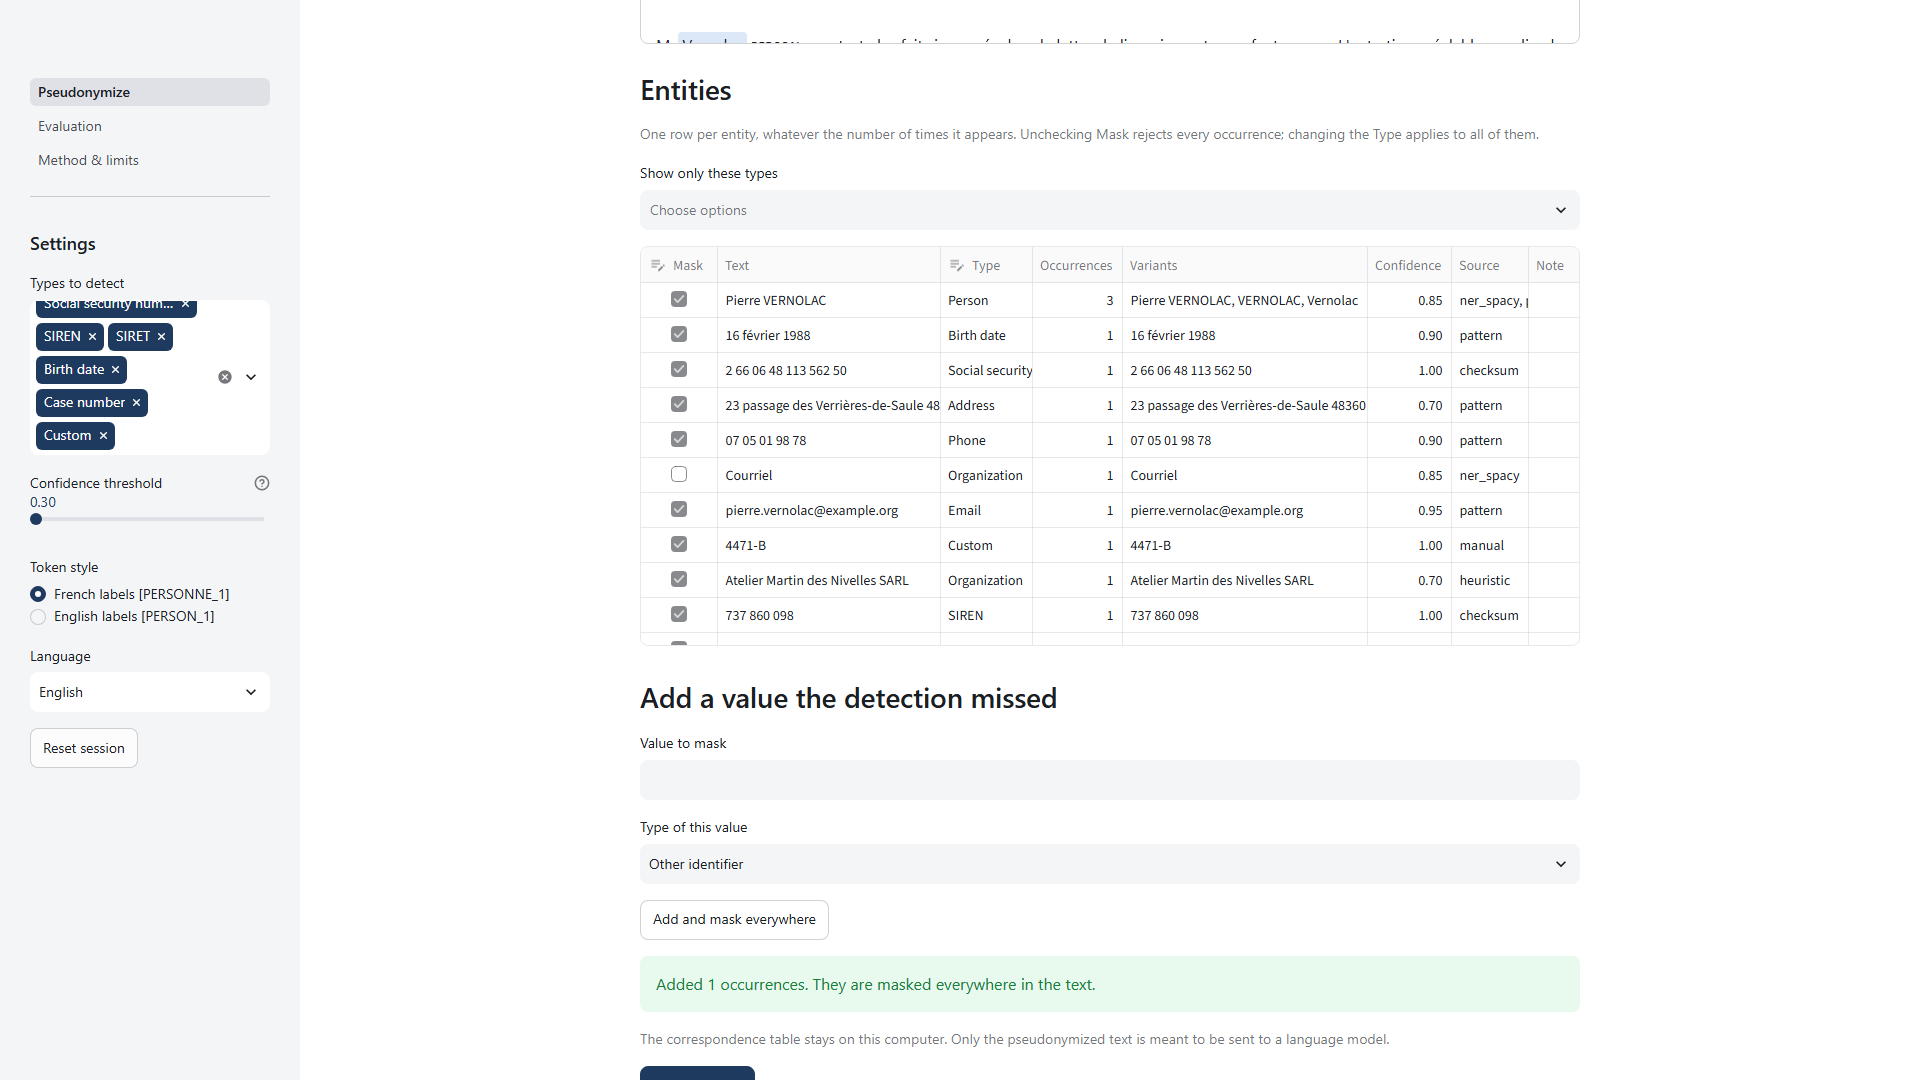
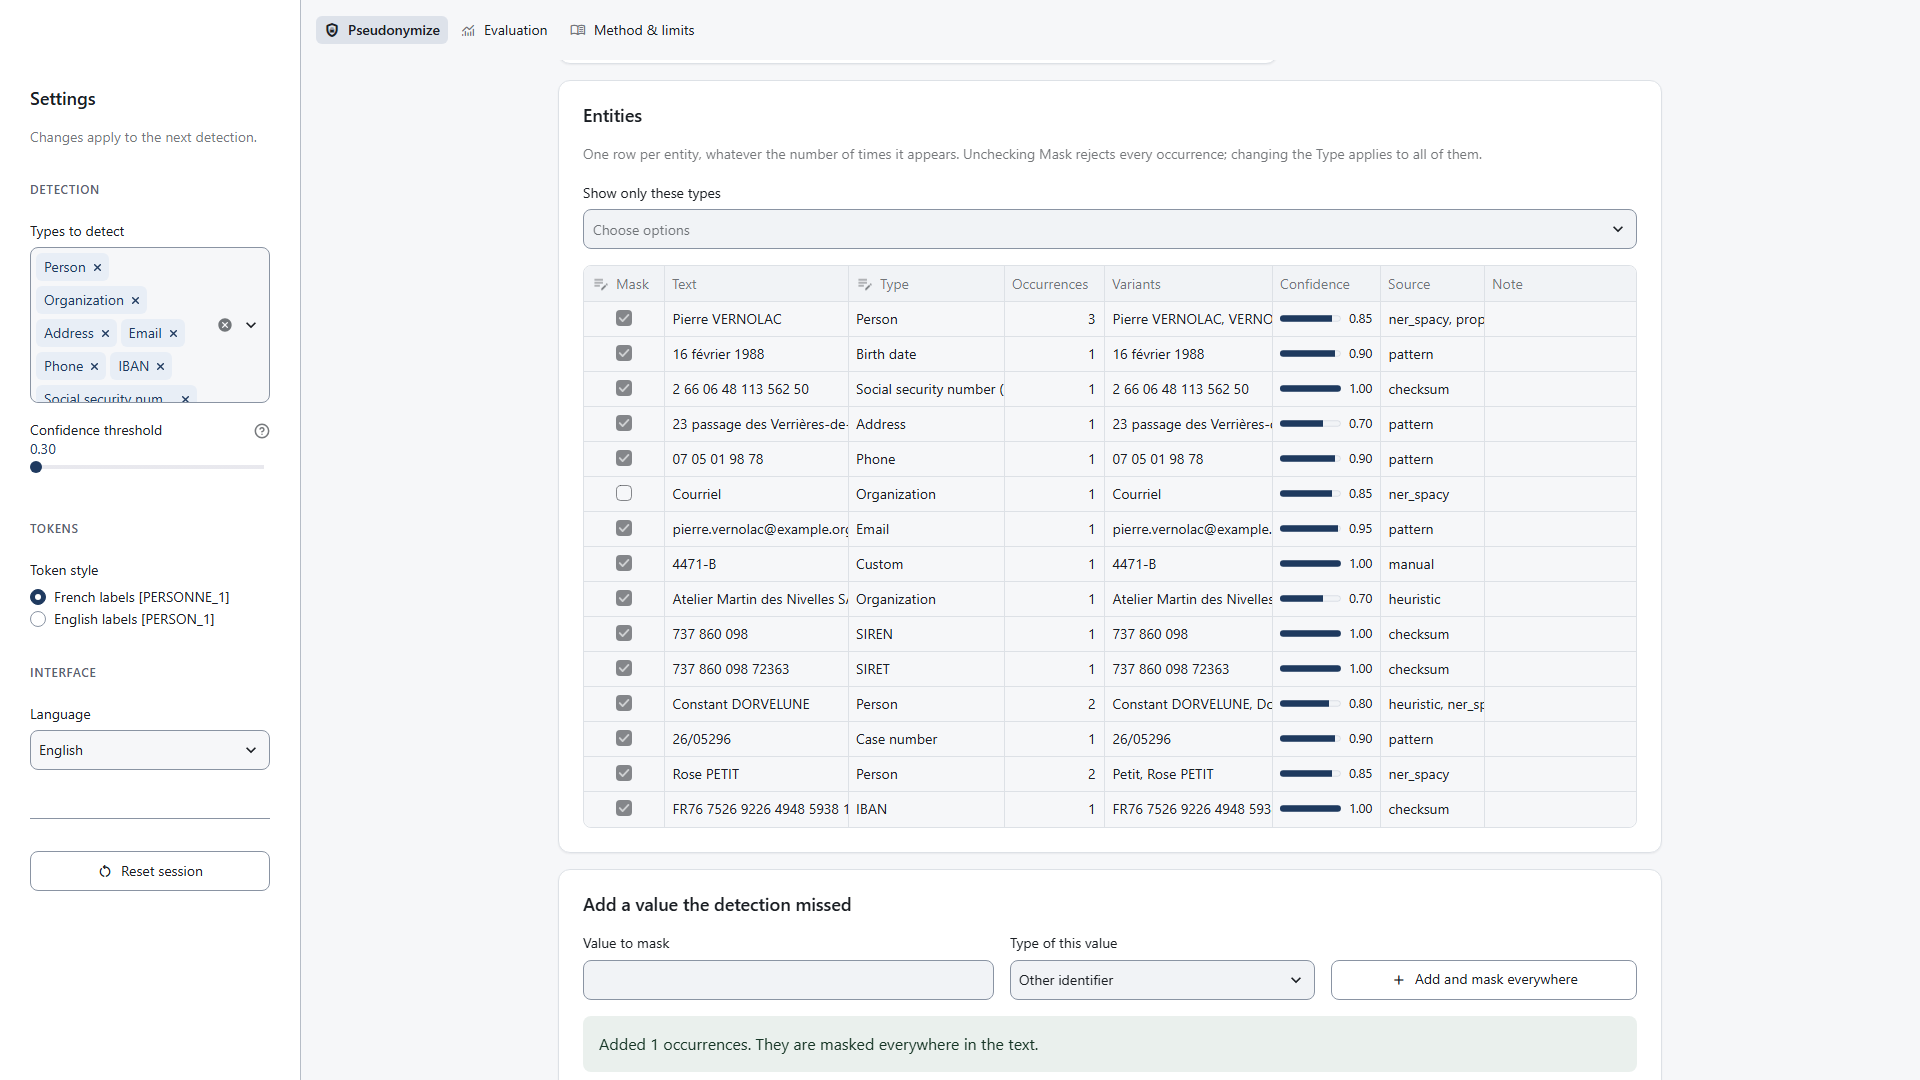
S36 : refonte visuelle de l'interface

diff --git a/app/assets/style.css b/app/assets/style.css
@@ -315,7 +315,18 @@ textarea:focus-visible,
     max-width: 72ch;
 }
 
-/* Indicateurs chiffrés en cartes. */
+/* Indicateurs chiffrés en cartes, de même hauteur sur une rangée même quand un libellé
+   traduit passe sur deux lignes. */
+.st-key-hc-metrics [data-testid="stHorizontalBlock"] {
+    align-items: stretch;
+}
+
+.st-key-hc-metrics [data-testid="stColumn"] [data-testid="stVerticalBlock"],
+.st-key-hc-metrics [data-testid="stColumn"] [data-testid="stElementContainer"],
+.st-key-hc-metrics [data-testid="stMetric"] {
+    height: 100%;
+}
+
 [data-testid="stMetric"] {
     background: var(--hc-card);
     border-color: var(--hc-border);

diff --git a/tests/test_i18n.py b/tests/test_i18n.py
@@ -13,6 +13,7 @@ import pytest
 from streamlit.testing.v1 import AppTest
 
 from app import i18n
+from huisclos.models import EntityType
 
 MODULE_NAMES = [path.stem for path in Path("app/i18n").glob("*.py")]
 
@@ -71,3 +72,22 @@ def test_main_app_in_french() -> None:
     app.selectbox(key="language").select("fr").run()
     assert not app.exception
     assert any(header.value == "Importer un document" for header in app.header)
+
+
+def test_language_switch_resends_the_chosen_settings() -> None:
+    """Le changement de langue renvoie au navigateur les types et le style de jetons choisis.
+
+    Le navigateur désigne un choix par son libellé : sans renvoi (set_value), un libellé
+    traduit ne correspond plus et le navigateur perd les types dont le nom change, donc les
+    noms ne seraient plus détectés.
+    """
+    app = AppTest.from_file(Path("streamlit_app.py").resolve(), default_timeout=15).run()
+    app.sidebar.radio(key="token_style").set_value("en").run()
+    app.sidebar.selectbox(key="language").select("fr").run()
+    assert not app.exception
+    types = app.sidebar.multiselect(key="enabled_types")
+    style = app.sidebar.radio(key="token_style")
+    assert types.proto.set_value
+    assert style.proto.set_value
+    assert len(types.value) == len(EntityType) - 1
+    assert style.value == "en"

diff --git a/app/steps/import_step.py b/app/steps/import_step.py
@@ -13,7 +13,7 @@ from pathlib import Path
 import streamlit as st
 
 from app.engine import prepare_engine
-from app.i18n import t
+from app.i18n import current_language, t
 from app.sidebar import build_config
 from app.state import (
     KEY_DETECTIONS,
@@ -141,7 +141,17 @@ def _render_source_feedback() -> None:
     name = st.session_state[KEY_SOURCE_NAME]
     if name == SAMPLE_PATH.name:
         st.info(t("import.sample.notice"), icon=":material/science:")
-    st.caption(t("import.source.summary", name=literal_markdown(name), count=f"{len(text):,}"))
+    st.caption(t("import.source.summary", name=literal_markdown(name), count=_count(len(text))))
+
+
+def _count(number: int) -> str:
+    """Écrit un nombre avec le séparateur de milliers de la langue : 2,057 ou 2 057.
+
+    En français, la virgule est le séparateur décimal ; les milliers sont séparés par une
+    espace fine insécable.
+    """
+    written = f"{number:,}"
+    return written.replace(",", "\u202f") if current_language() == "fr" else written
 
 
 def _run_detection(config: DetectionConfig) -> None:

diff --git a/app/sidebar.py b/app/sidebar.py
@@ -48,7 +48,15 @@ def build_config() -> DetectionConfig:
 
 
 def _keep_available_language() -> None:
-    """Rappel du choix de langue : revient à l'anglais si la langue choisie n'existe pas."""
+    """Rappel du choix de langue : garde les réglages choisis, revient à l'anglais au besoin.
+
+    Le navigateur désigne les choix d'une liste par leur libellé affiché. Quand la langue
+    change, un libellé traduit ne correspond plus à aucune option et le choix serait perdu :
+    tous les types sauf IBAN, SIREN et SIRET, donc les noms laissés en clair. Réécrire ces
+    valeurs depuis le serveur les renvoie au navigateur avec les nouveaux libellés.
+    """
+    st.session_state[KEY_ENABLED_TYPES] = list(st.session_state[KEY_ENABLED_TYPES])
+    st.session_state[KEY_TOKEN_STYLE] = st.session_state[KEY_TOKEN_STYLE]
     if st.session_state[KEY_LANGUAGE] not in AVAILABLE_LANGUAGES:
         st.session_state[KEY_LANGUAGE] = AVAILABLE_LANGUAGES[0]
         st.session_state[KEY_LANGUAGE_NOTICE] = True

diff --git a/app/steps/review_step.py b/app/steps/review_step.py
@@ -284,7 +284,7 @@ def render() -> None:
     groups = group_mentions(text, detections)
     st.markdown(t("review.intro"))
     _render_metrics(groups, detections)
-    document, side = st.columns([7, 3], gap="medium")
+    document, side = st.columns([2, 1], gap="medium")
     with document:
         _render_text(text, detections)
     with side:

diff --git a/docs/DECISIONS.md b/docs/DECISIONS.md
@@ -236,3 +236,24 @@ Seuil par défaut : 0,40 jusqu'à la gate 4, puis la valeur de results/threshold
 - Contexte : sur Community Cloud, un seul processus sert tous les visiteurs ; le modèle spaCy occupe l'essentiel de la mémoire (D-05). build_analyzer garde déjà son résultat par lru_cache, mais la logique métier de src/ ne doit pas dépendre de Streamlit.
 - Choix : app/engine.py enveloppe build_analyzer dans st.cache_resource, avec les cinq valeurs simples de la configuration pour clé ; l'étape Import l'appelle juste avant detect(), qui retrouve le même objet. Aucun st.cache_data dans app/ : aucun texte ni résultat de l'utilisateur n'est conservé entre sessions. tests/test_deploy.py vérifie ces deux points et l'absence d'écriture sur le disque dans app/.
 - Raison : un seul chargement du modèle par processus, visible et gérable par Streamlit (vidage du cache), sans modifier src/ ; le bandeau de démo (D-14) était déjà lu dans la variable d'environnement ou le secret HUISCLOS_PUBLIC_DEMO.
+
+## D-S36-1 Système de design, palette et polices
+- Choix : jetons CSS dans app/assets/style.css, repris par le thème de .streamlit/config.toml (test d'égalité). Bleu marine #1F3A5F pour l'action principale ; un seul accent, #0E7490 (5,36:1 sur blanc), pour le focus et les liens ; neutres #F6F7F9 (fond), cartes blanches à bordure #DDE1E6, bordure des composants #8A94A3 (3,07:1) ; états succès #2E6B4F, alerte #8C5A00, erreur #9B2C2C. Espacements multiples de 4 px (le test passe de 8 à 4, comme le demande la charte), rayons 4, 8 et 12 px, ombres légères. Chaque type d'entité reçoit une couleur franche (trait sous la mention, pastille, libellé) d'au moins 4,5:1 sur blanc. La police du système est fixée par le thème ; le remplacement global de police par CSS est retiré, car il effaçait la police des icônes passées en paramètre icon=. Graphiques : CHART_COLORS (marine puis teintes Okabe-Ito) remplace OKABE_ITO.
+- Raison : une seule source de couleurs, des contrastes AA vérifiés par tests/test_app_design.py, et des icônes Material natives sans ressource externe.
+
+## D-S36-2 Navigation en haut de page et en-tête honnête en démonstration
+- Choix : st.navigation(position="top") avec icônes Material ; la barre latérale ne garde que les réglages, groupés (Detection, Tokens, Interface), avec une aide courte et Reset session en action secondaire. Le nom et l'accroche forment un seul bloc HTML (un h1) au lieu de st.title, qui chevauchait l'accroche dans une rangée ; le test d'en-tête lit ce bloc. La pastille "Local processing" et l'encadré de confidentialité d'Import deviennent "Public demo" quand HUISCLOS_PUBLIC_DEMO vaut true.
+- Raison : sur la démonstration publique, le texte est traité par le serveur de l'hébergeur ; promettre un traitement local y serait faux (prudence, principe 1). Aucun libellé de bouton n'a changé ; la mention "(current step)" devient "Current step", absente du README et du guide.
+
+## D-S36-3 Découpage de Review et Restore, seuil de faible confiance
+- Choix : app/steps/review_step.py (393 lignes) est découpé en app/steps/review_decisions.py (décisions par position, ajout manuel), app/components/entity_table.py (lignes, colonnes, comparaison des modifications) et app/components/review_summary.py (cartes d'indicateurs) ; restore_step.py confie les téléchargements à restore_exports.py et l'envoi Mistral à restore_mistral.py ; le stepper est un composant pur (app/components/stepper.py). La carte "Low confidence" compte les occurrences de score inférieur à 0,75.
+- Raison : fichiers sous 300 lignes environ ; 0,75 isole, d'après le barème D-07, les formes Prénom NOM, les adresses et les numéros à clé fausse, à relire en premier. Ce seuil d'affichage ne change rien à la détection.
+
+## D-S36-4 Changement de langue : les réglages choisis sont renvoyés au navigateur
+- Constat : dans Chromium, passer l'interface en français ne laissait que IBAN, SIREN et SIRET dans "Types to detect" (seuls libellés identiques dans les deux langues) et vidait le choix du style de jetons : le navigateur désigne un choix par son libellé affiché. Défaut présent depuis S34, invisible pour AppTest ; les noms n'étaient alors plus détectés.
+- Choix : le rappel du sélecteur de langue réécrit les types activés et le style de jetons dans l'état ; Streamlit les renvoie alors avec les nouveaux libellés (indicateur set_value, vérifié par tests/test_i18n.py). Échec constaté sans le correctif, succès avec, dans Chromium : 12 types, style conservé, 18 détections du cas fictif.
+- Raison : priorité au rappel (principe 3) ; un réglage d'affichage ne doit jamais retirer un type de la détection.
+
+## D-S36-5 Valeurs restaurées surlignées
+- Choix : le texte restauré s'affiche dans un onglet "Highlighted" où chaque forme réelle des jetons remplacés (forme principale, variantes, formes d'origine de la table) est surlignée, avec son type écrit à côté, en mots entiers et la plus longue d'abord ; l'onglet "Plain text (copy)" garde le bloc st.code et son bouton de copie. Une valeur déjà écrite en clair dans la réponse est aussi surlignée.
+- Raison : relire les vraies valeurs avant d'utiliser la réponse, sans recalculer les positions de la restauration dans l'interface (aucune modification de src/). Surligner une valeur réelle déjà présente reste exact : c'est une donnée du dossier.

diff --git a/docs/PROGRESS.md b/docs/PROGRESS.md
@@ -14,6 +14,14 @@ Une entrée par session, la plus récente en tête de la section Entrées. Cinq 
 
 ## Entrées
 
+### 2026-10-28 01:49 | S36 | Recette R5, puis refonte visuelle de l'interface | Claude Code, Opus 5.5
+- Fait : étape 0, lane-b déjà fusionnée, 865 passed. Phase 0 sans objet : tag gate-5 déjà posé par R5. Refonte en quatre commits : système de design à jetons et thème aligné, en-tête compact (mot-symbole, pastille "Local processing", mention RGPD), navigation en haut avec icônes Material, barre latérale groupée, stepper horizontal (fait, courant, accessible, verrouillé avec raison, aria-current) ; Import en deux colonnes avec st.status ; Review en cartes (cinq indicateurs, page de document, décompte par type, tableau à barre de confiance, ajout manuel sur une ligne, barre d'actions) ; Restore en deux colonnes, valeurs restaurées surlignées avec leur type, téléchargements groupés ; Evaluation avec chiffres clés et graphiques à la charte ; Method en encadrés. Libellés des boutons inchangés.
+- Découpage : review_step.py 393 vers 295 lignes (review_decisions.py, components/entity_table.py, components/review_summary.py) ; restore_exports.py et restore_mistral.py ; components/stepper.py.
+- Défaut trouvé à la relecture française dans Chromium : passer en français ne gardait que IBAN, SIREN et SIRET dans les types et vidait le style de jetons (défaut présent depuis S34, invisible pour AppTest). Échec constaté, correctif dans le rappel de langue, succès constaté (12 types, 18 détections), test set_value ajouté (D-S36-4). Nombre de caractères écrit avec une espace fine en français.
+- Vérification visuelle : venv Playwright temporaire, Streamlit headless sur 8599, séries avant, phase 1, 2, 3, français et 1366 x 768 ; cinq cycles regarder-corriger (en-tête sous la barre de navigation, icônes écrites en toutes lettres, colonnes du tableau coupées, graphique de rappel de 4 000 px, colonnes de Restore déséquilibrées, cartes de hauteurs inégales). Tabulation : Load sample case, Paste text, zone de texte, Detect sensitive data, réglages ; focus visible. Six captures de docs/screenshots/ régénérées en 1920 x 1080 selon le déroulé R3 (rejet de "Courriel", ajout de "4471-B"). Guide : navigation, cartes, onglets du texte restauré mis à jour.
+- Tests : 926 passed (nouveaux : test_stepper.py, test_app_design.py pour ressources externes, contrastes et thème, cartes Review, surlignage restauré, langue) ; ruff check et format : OK ; check_style : 0 erreur, 5 avertissements de longueur (restore_step.py 329 lignes).
+- Décisions : D-S36-1 à D-S36-5. Risques : sélecteurs CSS liés aux data-testid de Streamlit 1.66 (à revoir à toute mise à jour) ; grille du tableau en canvas, case Mask à cliquer au centre. Reste à faire : vérifier la version en ligne après le prochain push (aucun push dans cette session). Suite : S14 (piste B), puis G7.
+
 ### 2026-10-28 00:46 | R5 | Recette de la gate G5 | Claude Code, Opus 5.5
 - Fait : lane-b fusionnée dans dev en avance rapide (0ea9d01), sans conflit ; verdict G5 recheck : GO. Recette dans un dossier temporaire court hors dépôt (%TEMP%\hc-r5), supprimé à la fin ; aucun Streamlit restant, ports 8501 et 8502 libres.
 - Étape 1, guide Windows suivi sur un clone neuf de dev (GitHub n'avait pas encore S52) : OK. Venv 7,1 s ; `pip install -r requirements.txt` code 0 en 93,9 s (cache pip du poste présent), pip check sans conflit, contrôle du modèle "ok" ; lancement `--server.address localhost` en headless : santé ok en 1,4 s, écoute sur 127.0.0.1 seulement, seconde instance passée seule sur 8502. AppTest du cas d'exemple : démarrage 2,9 s, première détection 6,1 s (modèle compris), 18 détections, 14 groupes, aucune valeur détectée restée en clair, restauration exacte identique au texte d'origine, aucune exception.

diff --git a/docs/PROMPTS.md b/docs/PROMPTS.md
@@ -8,6 +8,7 @@ This file records every prompt given to an AI tool while building HuisClos, as t
 
 | Date and time (Paris) | Session | Tool and model | Prompt reference | Follow-up prompts (verbatim) or notes |
 | --- | --- | --- | --- | --- |
+| 2026-10-28 01:49 | S36 | Claude Code, Opus 5.5 | Session request "[HuisClos] Session S36 : recette R5, puis refonte visuelle de l'interface (nuit)" | No follow-up prompt (night session). Phase 0 skipped: tag gate-5 already set by R5. Visual redesign in four commits: design tokens and aligned theme, compact header, top navigation, grouped sidebar, horizontal stepper, two-column Import and Restore, Review cards and document page, restored values highlighted, Evaluation key figures and charts, Method boxes. Review step split into components. Found in Chromium and fixed: switching to French dropped nine detection types and the token style. Playwright screenshots before and after each phase; six docs/screenshots regenerated. 926 tests pass, Ruff and style pass. No push. |
 | 2026-10-28 00:45 | PIL | Claude Code, Opus 5.5 | Human request (verbatim excerpt): "revoir la suite du masterplan pour approfondir le travail [...] un gros travail sur l'interface graphique afin qu'elle soit plus moderne, plus jolie et toujours pro" | Added the deepening tab to docs/MASTER_PLAN.md (S36, S14, C2, S45, S24, G7, S53) and amended AGENTS.md sections 7, 9 and 11. |
 | 2026-10-28 00:46 | R5 | Claude Code, Opus 5.5 | Session request "[HuisClos] Recette R5 : recette de la gate G5, fusion et tag" | Follow-up, verbatim answer to a blocking question about the remote main: "Fusionner origin/main (Recommended)". Fast-forwarded lane-b; G5 verdict GO. Fresh clone of dev in a short temporary folder, Windows user guide followed: python resolved to 3.14, so py -3.12 from the troubleshooting section; install 93.9 s; headless launch on localhost, health in 1.4 s; sample case by AppTest with 18 detections, no leak and exact restore. Clone pytest: 851 passed, 14 CamemBERT skips. Live app: HTTP 200 after the Streamlit sign-in redirects; Playwright: app already awake, demo banner visible, sample detection in 1.4 s, 18 highlights. README URL correct; no repository file changed by the acceptance run. Remote main held the human's devcontainer commit, merged into dev with consent. 865 tests pass, Ruff and style pass. Fast-forward of main, tag gate-5 and push follow. |
 | 2026-10-28 00:13 | G5 recheck | Codex | Repeated session request "[HuisClos] Gate 5 : contrôle de la reproductibilité" | Clean initial tree, fast-forward from dev to 035eb02 without conflict. Independent offline recheck after G5-fix: 865 tests pass, Ruff and style pass with six existing length warnings, installed pins match and pip check is clean. Verified commands, interface labels, 16 internal links, six screenshots and five saved metric rows. Counts-only email audit: corpus 88, tests 37, data 1, zero unauthorized domains; invalid test@localhost remains a rejection fixture. No secret, tracked sensitive file or file over 5 MB detected; maximum sampled hybrid RSS 731.8 MiB. G5-E1 closed, no further correction needed; only these two logs changed. Follow-up, verbatim: "J'ai juste ouvert le lien du streamlit et qlq clics. J'ai rein fait d'autre". GO for the repository; second-machine installation and full online workflow remain unverified by the human. Commit only, no tag or push; run suite.py G5 --go and relay its output verbatim. |

diff --git a/docs/USER_GUIDE.md b/docs/USER_GUIDE.md
@@ -88,9 +88,12 @@ about ten minutes. After that, HuisClos works without internet.
 
 ## 3. The three steps
 
-The left column shows the pages (**Pseudonymize**, **Evaluation**, **Method & limits**) and
-the settings. The **Pseudonymize** page guides you through three steps: **Import**,
-**Review** and **Restore**. A step becomes available once the previous one is done.
+The bar at the top of the page shows the pages (**Pseudonymize**, **Evaluation**,
+**Method & limits**); on a narrow screen, they are in the menu of the left column. The left
+column holds the settings. The **Pseudonymize** page guides you through three steps:
+**Import**, **Review** and **Restore**, shown at the top of the page with their state
+(completed, current step, or the reason why a step is not available yet). A step becomes
+available once the previous one is done.
 
 ### Step 1: Import
 
@@ -109,9 +112,13 @@ scanned documents are refused.
 
 ![Review step: highlighted text](screenshots/02_review_highlight.png)
 
+Cards at the top count the entities, the masked and rejected occurrences, the types found
+and the **Low confidence** occurrences (score below 0.75), which deserve a check first.
+
 The **Highlighted text** shows every detection with a colour and a label such as PERSON,
-COMPANY or ADDRESS. The **Legend** explains the labels. Hover over a highlight to see its
-score and source.
+COMPANY or ADDRESS. The legend above the text explains the colours, and **By type** counts
+the masked and rejected occurrences of each type. Hover over a highlight to see its score
+and source.
 
 ![Review step: entity table](screenshots/03_review_table.png)
 
@@ -146,7 +153,9 @@ first step.
 
 ![Restore step: restored answer](screenshots/05_restore_result.png)
 
-The **Restored text** shows the answer with the real values. Read the messages above it:
+The **Restored text** shows the answer with the real values from the mapping table
+highlighted, each with its type written next to it; the tab **Plain text (copy)** gives the
+same text with a copy button. Read the messages below it:
 
 - **Exact mode** (you pasted the pseudonymized text itself): every value comes back as it was
   written.
